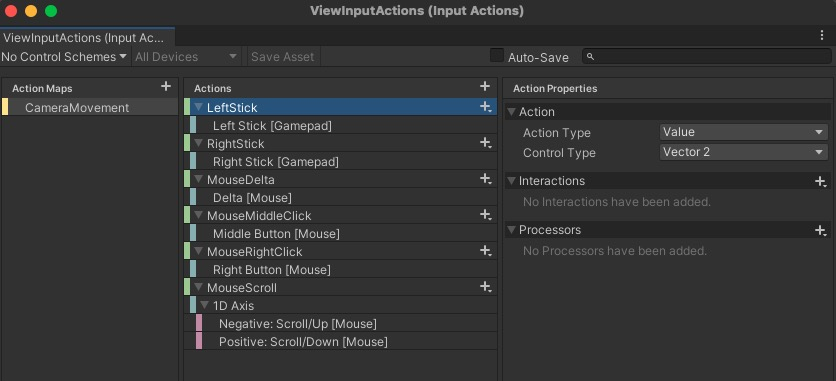
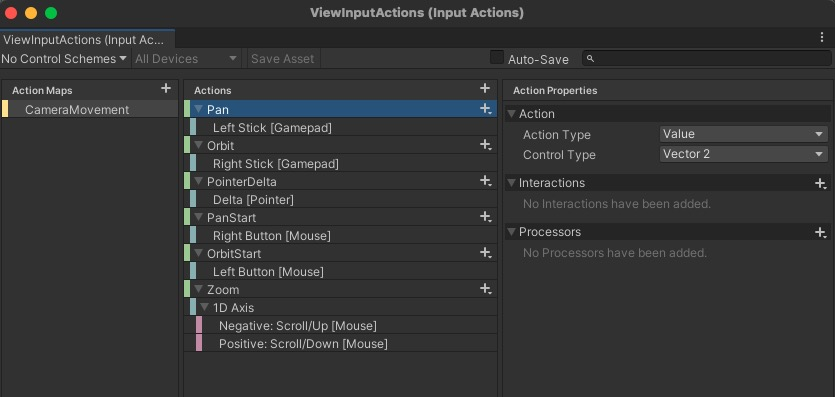
fixes

diff --git a/data/blog-posts/unity-0-demo-template-guis.md b/data/blog-posts/unity-0-demo-template-guis.md
@@ -63,7 +63,7 @@ We will need to add `Unity UI` Game Objects to represent the analog sticks on th
 
 ## Connecting to the CameraMovement
 
-- The `CameraMovement` classes will listen to events such as `OnLeftStick` or `OnMouseDelta`.
+- The `CameraMovement` classes will listen to events such as `OnPan` or `OnPointerDelta`.
 - And internally will use these inputs to move the camera accordingly.
 
 ![Picture](/images/blog/unity-0-demo-template-guis/6.jpg)
@@ -72,31 +72,30 @@ We will need to add `Unity UI` Game Objects to represent the analog sticks on th
 ### Input Signals
 
 ```cs
-private void OnLeftStick(InputValue value) => panAmount = value.Get<Vector2>();
-private void OnRightStick(InputValue value) => orbitAmount = value.Get<Vector2>();
+private void OnPan(InputValue value) => panAmount = value.Get<Vector2>();
+private void OnOrbit(InputValue value) => orbitAmount = value.Get<Vector2>();
 ```
 
 ```cs
-private void OnMouseDelta(InputValue value)
+private void OnPointerDelta(InputValue value)
 {
     orbitAmount = isOrbiting ? value.Get<Vector2>() : Vector2.zero;
     panAmount = isPanning ? value.Get<Vector2>() * -1.0f : Vector2.zero;
 }
 
-private void OnMouseRightClick(InputValue value)
+private void OnOrbitStart(InputValue value)
 {
     isOrbiting = value.isPressed;
 }
 
-private void OnMouseMiddleClick(InputValue value)
+private void OnPanStart(InputValue value)
 {
     isPanning = value.isPressed;
 }
 
-private void OnMouseScroll(InputValue value)
+private void OnZoom(InputValue value)
 {
     zoomAmount = value.Get<float>();
-}
 }
 ```
 
